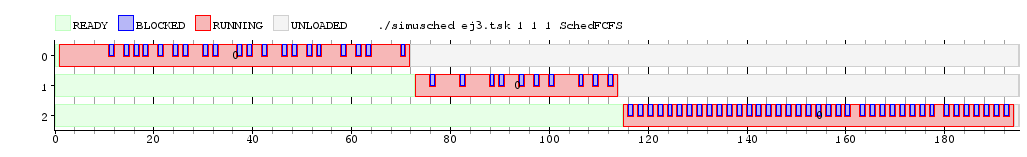
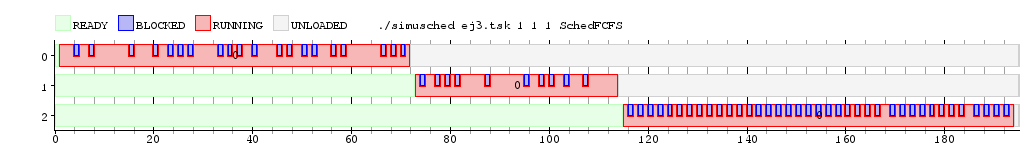
Ej4: Round Robin. Terminado?

diff --git a/tp1/simusched/sched_rr.cpp b/tp1/simusched/sched_rr.cpp
@@ -8,19 +8,101 @@ using namespace std;
 
 SchedRR::SchedRR(vector<int> argn) {
 	// Round robin recibe la cantidad de cores y sus cpu_quantum por parámetro
+	coreNum = argn[0];
+	maxQuantum = argn[1];
+	quantum = vector<int>(coreNum, maxQuantum);
 }
 
 SchedRR::~SchedRR() {
 
 }
 
-
 void SchedRR::load(int pid) {
+	// Carga la tarea para ser usada
+	cola.push(pid);
 }
 
 void SchedRR::unblock(int pid) {
+	// Volver a meter la tarea en la cola
+	cola.push(pid);
 }
 
 int SchedRR::tick(int cpu, const enum Motivo m) {
+	// Motivo puede ser TICK, BLOCK, EXIT...
+	//cout << "size: " << cola.size() << endl;
+	switch(m){
+	case TICK: {
+		// La tarea actual es la que se está corriendo
+		int actual = current_pid(cpu);
+		// por defecto, el siguiente es la actual
+		int sig = actual;
 
+		if (actual == IDLE_TASK){
+
+			if (cola.empty()){
+				return IDLE_TASK;
+			} else {
+				//cout << "Salgo " << current_pid(cpu) << endl;
+				int buffer = cola.front();
+				////cout << "Sacamos a " << cola.front() << endl;
+				cola.pop();
+				//cout << endl;
+				quantum[cpu] = maxQuantum;
+				return buffer;
+			}
+
+		} else {
+
+			// Si se le acaba e:l quantum, le toca al próximo
+			//cout << "me qued a"<<quantum[cpu] << endl;
+			if (quantum[cpu] <= 0){
+				// Agregamos a la cola la tarea que acaba
+				// de ser procesada	por falta de quantum
+				cola.push(actual);
+				// El siguiente es el primero en la fila
+				//cout << actual << "actual"<< endl;
+				sig = cola.front();
+				//cout << sig << "siguiente"<<endl;
+				cola.pop(); //Experimental
+				// Finalmente, reseteamos el quantum
+				quantum[cpu] = maxQuantum;
+			} else {
+				quantum[cpu] -= 1;
+			}
+		}
+		return sig;
+	}
+	break;
+	case BLOCK:
+		if (cola.empty()){
+			return IDLE_TASK;
+		} else {
+			// Reseteamos el quantum
+			quantum[cpu] = maxQuantum;
+			// El siguiente es el primero en la fila
+			int sig = cola.front();
+			cola.pop();
+			return sig;
+		}
+	break;
+	case EXIT:
+		//cout << "terminé!" << endl;
+		//cout << "Soy: " << current_pid(cpu) << endl;
+		// Si no hay más elementos, terminamos
+		if (cola.empty()){
+			return IDLE_TASK;
+		} else {
+			// Reseteamos el quantum
+			quantum[cpu] = maxQuantum;
+			// El siguiente es el primero en la fila
+			int sig = cola.front();
+			//cout << "Sacamos a " << sig << endl;
+			cola.pop();
+			return sig;
+		}
+	break;
+	default:
+		return IDLE_TASK;
+	break;
+	}
 }

diff --git a/tp1/simusched/tasks.cpp b/tp1/simusched/tasks.cpp
@@ -1,5 +1,6 @@
 #include "tasks.h"
 #include <stdlib.h>
+#include <algorithm>
 
 using namespace std;
 
@@ -20,15 +21,32 @@ void TaskAlterno(int pid, vector<int> params) { // params: ms_pid, ms_io, ms_pid
 }
 
 void TaskConsola(int pid, vector<int> params) { // params: n, bmin, bmax
-	for(int i = 0; i < params[0]; ++i) {	
-		int time = params[1] + (rand() % ((params[2] + 1) - params[1]));
-		uso_IO(pid, time);
+	int tiempo;
+	for(int i = 0; i < params[0]; ++i) {
+		tiempo = params[1] + (rand() % ((params[2] + 1) - params[1]));
+		uso_IO(pid, tiempo);
 	}
-	
+
 }
 
 void TaskBatch(int pid, vector<int> params) { // params: total_cpu, cant_bloqueos
-	vector<bool> ticks = vector<bool>(params[0]);
+	// Tiempo discretizado
+	auto ticks = vector<bool>(params[0]);
+	// vector para obtener posiciones aleatorias
+	auto posTiempo = vector<int>(params[0]);
+	//inicializamos ambos vectores
+	for (int i = 0; i < params[0]; ++i){
+		ticks[i] = false;
+		posTiempo[i] = i;
+	}
+
+	//desordena el vector en tiempo lineal
+	random_shuffle(posTiempo.begin(), posTiempo.end());
+	for(int i = 0; i < params[1]; ++i){
+		ticks[posTiempo[i]] = true;
+	}
+
+	/*
 	for(int i = 0; i < params[1]; ++i) {
 		int j = rand() % params[0];
 		bool tick = ticks[j];
@@ -38,14 +56,17 @@ void TaskBatch(int pid, vector<int> params) { // params: total_cpu, cant_bloqueo
 			ticks[j] = true;
 		}
 	}
+	*/
+
+	//Para cada instante de tiempo, usamos cpu o bloquemos
 	for(int i = 0; i < params[0]; ++i) {
 		if(ticks[i]) {
 			uso_IO(pid, 1);
 		} else {
 			uso_CPU(pid, 1);
-		}		
+		}
 	}
-	
+
 }
 
 void tasks_init(void) {

diff --git a/tp1/simusched/sched_rr.h b/tp1/simusched/sched_rr.h
@@ -13,6 +13,12 @@ class SchedRR : public SchedBase {
 		virtual void unblock(int pid);
 		virtual int tick(int cpu, const enum Motivo m);
 
+	private:
+		std::queue<int> cola;
+		int coreNum; // cantidad de cores
+		std::vector<int> quantum; // tiempo restante por cada cpu
+		int maxQuantum;	// duración total del quantum
+		std::vector<int> runningProcs; // pid del proceso actual corriendo para cada CPU
 };
 
 #endif
